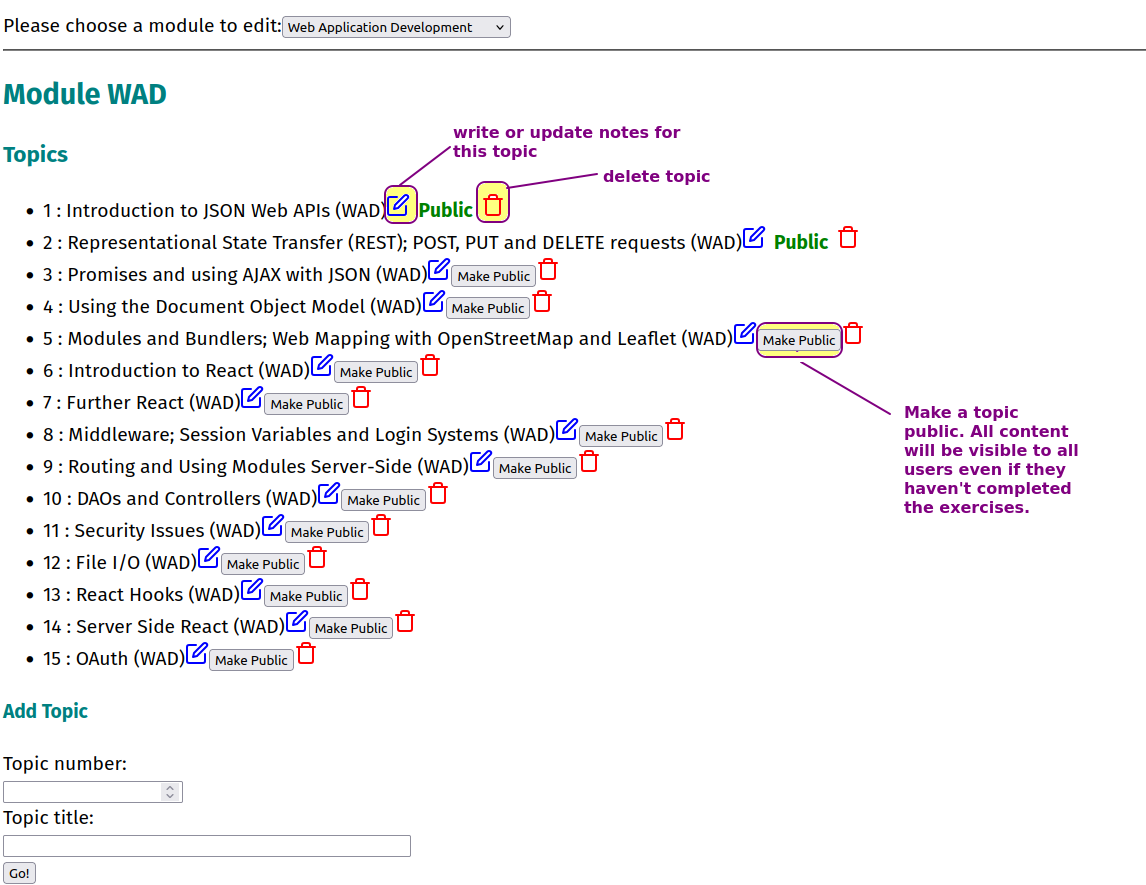
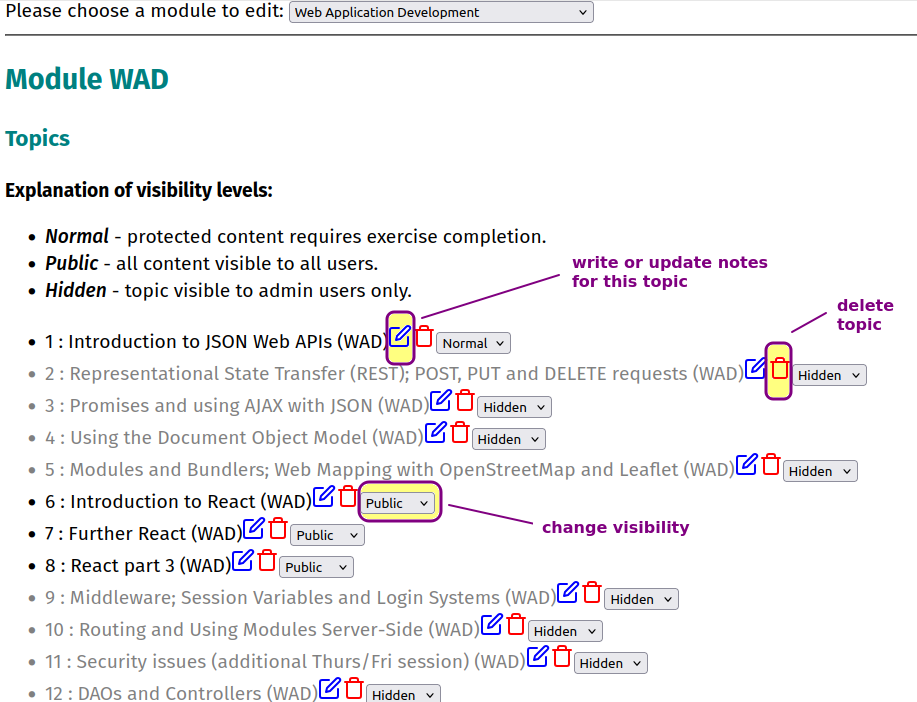
Update README

diff --git a/README.md b/README.md
@@ -37,22 +37,19 @@ As `lilt` servers are expected to be small-scale, servicing just a small number 
 
 You need [Node.js](https://nodejs.org) - at least version 20 - installed on your system.
 
-`lilt` uses [@lazarv/react-server](https://react-server.dev) as its web development framework. You can optionally install the package management tool  [pnpm](https://pnpm.io).
+`lilt` uses [@lazarv/react-server](https://react-server.dev) as its web development framework. You should also install the package management tool [pnpm](https://pnpm.io).
 
 Once installed do:
 
 ```
-npm install
+pnpm install
 ```
 
 Then build:
 
 ```
-npm react-server build
+pnpm react-server build
 ```
-
-You can alternatively use `pnpm` rather than `npm`.
-
 
 ### Setup lilt 
 
@@ -65,8 +62,9 @@ node utils/setup.mjs
 ```
 it will first ask you for the directory you wish to store the SQLite database (`lilt.db`) and the directory you wish to store the notes (which will be a subdirectory called `notes`). 
 
-Please enter those directories. You can also choose whether you would like admin users to edit notes directly from within `lilt` (recommended on an intranet, you might want to turn off on a public server for security reasons). The setup tool will then exit. You will notice that in the main lilt directory, a file called `.env` has been created, storing the location of the database, the notes, and whether notes editing is enabled.
+Please enter those directories. You can also choose whether you would like admin users to edit notes directly from within `lilt` (recommended on an intranet, but you might want to turn off on a public server for security reasons). The setup tool will then exit. You will notice that in the main lilt directory, a file called `.env` has been created, storing the location of the database, the notes, and whether notes editing is enabled.
 
+If you wish to enable or disable notes editing later, you can edit the .env file, specifically the `EDIT_NOTES_ENABLED` setting. Set it to `true` to enable or `false` to disable.
 
 ### Setup an admin user
 
@@ -80,10 +78,9 @@ In the `utils` directory is a script named `cleanup.mjs`. This will delete old u
 
 Start the server with:
 ```
-npx react-server start --port YOUR_CHOSEN_PORT
+pnpm react-server start --port YOUR_CHOSEN_PORT
 ```
 Port is 3000 by default.
-Alternatively you can use `pnpm` rather than `npx`.
 
 ## Setup topics and exercises (tutors)
 
@@ -105,15 +102,19 @@ There are a number of options. Adding and deleting modules is fairly self-explan
 
 ### Editing an existing module
 
-You can edit a module by adding and deleting topics, making topics public, and adding exercises to an existing topic. If you select a module from the dropdown list on the main admin page, you will see a screen like this:
+You can edit a module by adding and deleting topics, making topics public or hidden, and adding exercises to an existing topic. If you select a module from the dropdown list on the main admin page, you will see a screen like this:
 
 ![Editing a module](/pics/editmodule.png)
 
 You can see a list of existing topics if any have been added already, and you can also add a new topic.
 
-With the existing topics you may write or update the topic's Markdown notes (described in more detail below), delete the topic, and make the topic public. 
+With the existing topics you may write or update the topic's Markdown notes (described in more detail below), delete the topic, and set the topic's visiblility.
 
-What does making a topic public mean? It means that all content of that topic will be accessible to all users, logged-in or not, irrespective of whether they have completed its exercises yet. Ideally you should make a topic public once all the classes for that topic have completed, so that anyone who misses a week (and thus misses the interactive exercises) will be able to view the content.
+There are three visibility levels:
+
+- *Normal* : the usual level. Content which depends on completing an exercise is hidden.
+- *Public* : all content of that topic will be accessible to all users, logged-in or not, irrespective of whether they have completed its exercises yet. Ideally you should make a topic public once all the classes for that topic have completed, so that anyone who misses a week (and thus misses the interactive exercises) will be able to view the content.
+- *Hidden* : the topic will be completely hidden to regular or non-logged-in users. Only administrators will be able to view the content. This is useful if you are still writing a topic and do not want it to be visible yet.
 
 ### Adding an exercise
 
@@ -134,6 +135,8 @@ You can also add multiple choice questions by selecting the "Multiple choice" qu
 ![Adding an exercise - multiple choice](/pics/addexercise3.png)
 
 Make sure you add the options on a separate line, beginning each option with a star, as shown above.
+
+Finally it is possible to add an exercise with no questions. This might be useful if you are doing a paper exercise where students do not need to answer any quiz questions, but where you might want to hide content until a discussion on the exercise has been done.
 
 ### Managing exercises
 
@@ -157,6 +160,7 @@ When students have answered all questions in an exercise, hidden content will no
 
 Once all answers for a given exercise and for a given user are authorised, that user will be able to view protected content which depends on completion of that xercise.
 
+For exercises with no questions (e.g. paper-based exercises) where you want to hde the discussion until students have tried out the exercise, the message "Answered" will appear for each student that clicks the completion button after completing the exercise (see "adding an exercise", above).
 
 ## Write your notes (tutors)
 
@@ -166,7 +170,7 @@ There are thus two methods to write your notes, via the *inbuilt graphical edito
 
 ### Using the inbuilt graphical editor
 
-This is accessible via the admin "edit module" functionality as introduced above. If you select to edit the notes, you will see a screen like the above appear:
+As long as it was enabled during setup, this is accessible via the admin "edit module" functionality as introduced above. If you select to edit the notes, you will see a screen like the above appear:
 
 ![Notes editor](/pics/writenotes.png)
 
